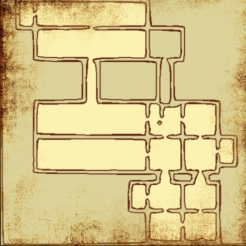
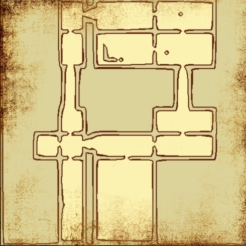
placed random items

diff --git a/site/htdocs/game-world/generateCircularDungeonMap.php b/site/htdocs/game-world/generateCircularDungeonMap.php
@@ -59,7 +59,7 @@ make sure templates don't block entrance and exits
 rarer items should be placed more often the deeper in to the dungeon the player has gone
 
 
-
+1512098741 - book placed over template barrel. collection item placed in wall
 
 
 ISSUES:
@@ -1876,7 +1876,10 @@ $bookContent = createProceduralBook();
 
     $outputJSON .= '"inscription": { "title":"'.str_replace('"', '\"', createProceduralTitle()).'", "timeCreated":"'.$newTimeStamp->getTimestamp().'", "content":"'.preg_replace( "/\r|\n/", "",(str_replace('"', '\"', $bookContent))).'"}},';
     } else {
-     $outputJSON .= '{"type": '.$placedItems[$i][0].', "tileX": '.$placedItems[$i][1].', "tileY": '.$placedItems[$i][2].'},';
+     $outputJSON .= '{"type": '.$placedItems[$i][0].', "tileX": '.$placedItems[$i][1].', "tileY": '.$placedItems[$i][2].',';
+
+$outputJSON .= '"quantity": 1,"quality": 100,"durability": 100,"currentWear": 0,"effectiveness": 100,"wrapped": 0,"colour": 0,"enchanted": 0,"hallmark": 0,"inscription":""},';
+
  }
  }
 }
